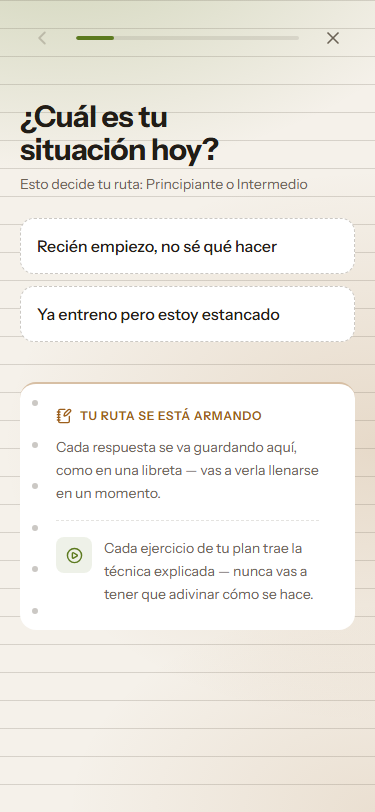
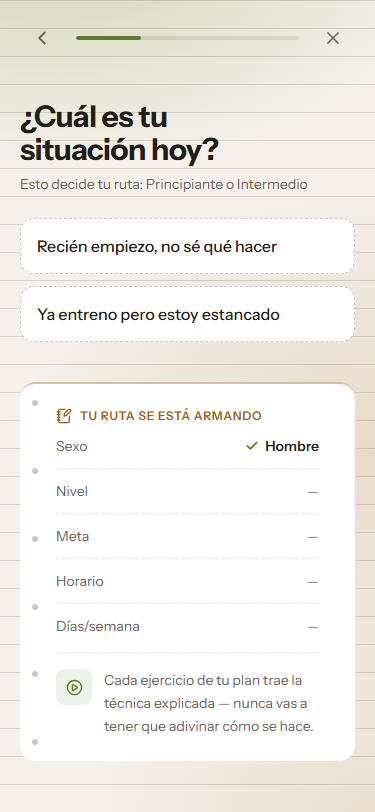
fix: onboarding — ícono propio para el paso de sexo, comentario desactualizado
Re-verificado con revisor-visual tras agregar el paso de sexo: sigue LISTA
(36/40 usabilidad, 16/20 craft). Se corrige el ícono reutilizado (PlayCircle
ya usado en "nivel") por uno propio del contenido (Activity), y un
comentario interno que seguía diciendo "6 pasos".

diff --git a/app/onboarding/page.tsx b/app/onboarding/page.tsx
@@ -7,7 +7,7 @@
 import { useEffect, useRef, useState } from 'react';
 import { useRouter } from 'next/navigation';
 import { animate, AnimatePresence, motion, useReducedMotion, type Variants } from 'motion/react';
-import { Check, ChevronLeft, NotebookPen, PlayCircle, RefreshCcw, ShieldAlert, Users, X, Zap } from 'lucide-react';
+import { Activity, Check, ChevronLeft, NotebookPen, PlayCircle, RefreshCcw, ShieldAlert, Users, X, Zap } from 'lucide-react';
 import type { LucideIcon } from 'lucide-react';
 import {
   guardarRespuestas,
@@ -98,7 +98,7 @@ export default function OnboardingPage() {
   // Hallazgo revisor-visual: "Salir" borraba las respuestas ya dadas sin
   // avisar. Si todavía no respondió nada (pasoIdx===0), salir directo — no
   // hay nada que perder. Si ya avanzó, confirmar antes (no guardamos
-  // progreso a mitad del cuestionario: son 6 pasos, ~1 minuto, no vale la
+  // progreso a mitad del cuestionario: son 7 pasos, ~1 minuto, no vale la
   // pena la complejidad de persistir un estado a medio completar).
   function pedirSalir() {
     if (pasoIdx === 0) {
@@ -313,7 +313,7 @@ export default function OnboardingPage() {
                 horario={horario}
                 dias={null}
                 beneficio={{
-                  icono: PlayCircle,
+                  icono: Activity,
                   texto: 'El gasto calórico en reposo cambia entre hombres y mujeres — sin este dato, tus macros serían un promedio genérico, no los tuyos.',
                 }}
               />

diff --git a/docs/revisiones/onboarding-veredicto.md b/docs/revisiones/onboarding-veredicto.md
@@ -1,17 +1,14 @@
 # VEREDICTO revisor-visual — onboarding
-Fecha: 2026-09-02 00:00
-Screenshot: docs/revisiones/onboarding-nivel-375.png (+ onboarding-meta-375.png, onboarding-compromiso-375.png)
+Fecha: 2026-09-03 00:00
+Screenshot: docs/revisiones/onboarding-sexo-375.png
 Usabilidad: 36/40
 Craft: 16/20
 Copy (si vende): N-A
 Fidelidad (si hubo referencia): N-A
 Veredicto: LISTA
-
 Top defectos:
-1. [CTA "Fijar mi meta" → terminar()] guardarRespuestas() es sessionStorage síncrono y la navegación a /onboarding/generando es inmediata (pantalla de carga rica con anillo+checklist+aria-live) — el riesgo teórico de "tap sin feedback" que se señaló la ronda pasada no se resolvió con un estado visual propio, pero en la práctica el hueco es sub-100ms y el whileTap ya cubre el instante del tap: defecto real pero de impacto marginal, solo lo nota quien revisa con lupa.
-2. [Jerarquía tipográfica global — Pregunta() + TarjetaRuta()] Siguen conviviendo 4 tamaños (título 3xl, chip base, micro/body sm, eyebrow "TU RUTA SE ESTÁ ARMANDO" xs) en la misma pantalla, por encima del máximo de 3 recomendado → unificar micro-copy del paso y eyebrow de la tarjeta a un mismo tamaño.
-3. [Fondo global + TarjetaRuta — dirección de arte] Papel cálido (#F5F1EA) + tinta verde (#5C7A1F) + renglones de cuaderno sigue siendo el punto más frágil de identidad frente al patrón vetado "Capítulo"; la tipografía (Instrument Sans, no Petrona/Karla) y el dispositivo de espiral+tachado alejan del clon exacto, pero el kit se siente intercambiable con cualquier "app-libreta" genérica → reforzar el dispositivo ownable (espiral más protagonista, textura de tachado más marcada) antes de reutilizar esta paleta en otra pantalla.
-4. [Paso "compromiso" — feedback de error] No hay evidencia en código de qué pasa si sessionStorage falla o está deshabilitado (modo incógnito estricto): leerRespuestas() en /onboarding/generando redirige silenciosamente a /onboarding sin explicar por qué se reinició — mensaje breve ("no pudimos guardar tus respuestas, empecemos de nuevo") evitaría que se lea como un bug.
-5. [Chips no seleccionados — Chips()] El borde punteado (border-dashed) en el estado no-seleccionado puede leerse como "placeholder/deshabilitado" en vez de "opción disponible"; confirmar con un usuario real que no reduce la tasa de tap en el primer paso.
-
-Nota: ninguno de los 5 bloquea el gate (≥36/40 y ≥16/20) — son candidatos a una ronda de pulido posterior, no defectos que un usuario promedio note sin buscarlos.
+1. [TarjetaRuta, paso "sexo"] El ícono PlayCircle del bloque de beneficio no corresponde al contenido (texto sobre cálculo de calorías/macros, ícono de "reproducir") — el mismo ícono ya se usa en el paso "nivel" para un beneficio distinto (técnica en video), rompiendo la asociación ícono=significado → usar un ícono propio (p.ej. Activity/HeartPulse) para el beneficio de sexo.
+2. [Paso "sexo", chips] Sexo biológico solo ofrece 2 opciones sin ninguna nota de por qué no hay más (la micro-copy explica el USO del dato pero no por qué es binario) — un usuario que no se identifica con ninguna de las dos puede sentirse excluido sin explicación; agregar una línea que aclare que es un dato fisiológico para la fórmula, no una casilla de identidad.
+3. [Barra de progreso, paso 1 de 7] El avance ahora arranca en ~14% (1/7) en vez de ~17% (1/6) — el cuestionario se percibe marginalmente más largo desde el primer paso; vigilar que no se sea sume un octavo paso sin revisar longitud total contra el límite de 4-8 pasos de 02B.
+4. [Código, comentario línea 101 de app/onboarding/page.tsx] El comentario interno sigue diciendo "son 6 pasos, ~1 minuto" tras agregar el paso "sexo" — no afecta al usuario pero es documentación desactualizada que puede confundir a quien mantenga el flujo; actualizar a "7 pasos".
+5. [ESTADO.md línea 369] La descripción de la Sesión 4 sigue listando el onboarding como "6 pasos" sin el paso "sexo" — actualizar la memoria del proyecto para que refleje el flujo real de 7 pasos.
